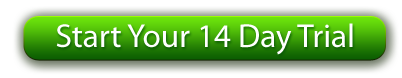
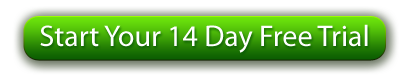
several tweaks

Changed region(s): [[0.0896, 0.2821, 0.9254, 0.6923]]

diff --git a/app/Controller/CompaniesController.php b/app/Controller/CompaniesController.php
@@ -33,7 +33,7 @@ class CompaniesController extends AppController {
     }
 	
 	public function register($plan) {
-		if (!in_array($plan,array('monthly','quarterly','annual'))) {
+		if (!in_array($plan,array('monthly','quarterly','annual','trial'))) {
 			$this->redirect('/pricing');
 		}
 		$this->layout = 'main';
